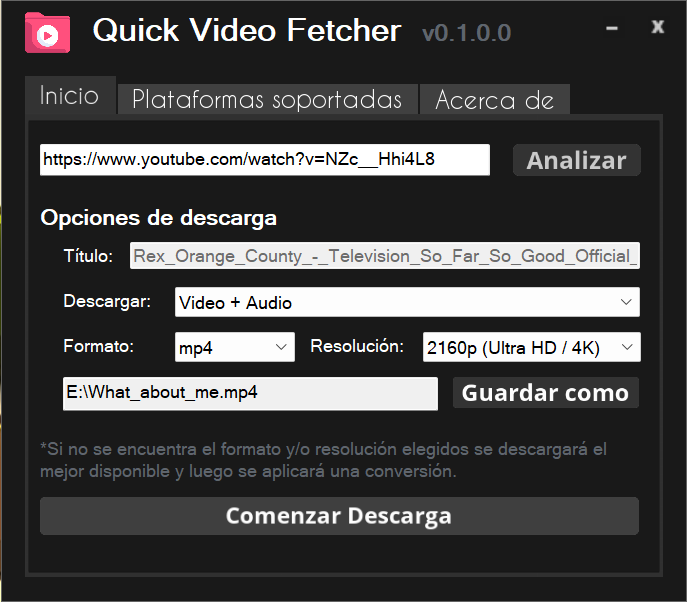
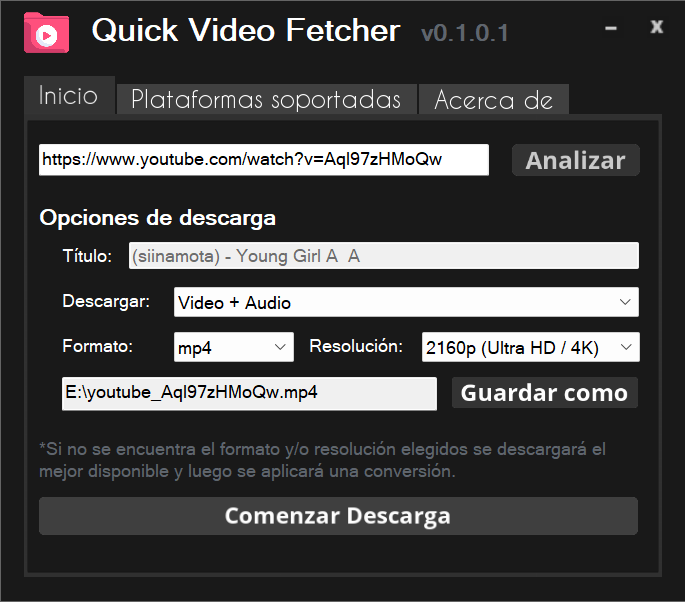
v0.1.0.1
- Añadimos un identificador de plataformas (sitios web desde los que se descargan los videos) para generar mejores nombres de archivo predeterminados.
- Añadimos un mensaje de que, por el momento, no se pueden descargar videos desde una plataforma azul.
- Queremos probar el actualizador automático

diff --git a/README.md b/README.md
@@ -8,8 +8,8 @@ Puedes utilizar estos *checksum* para verificar que la descarga no ha sido alter
 
 | NOMBRE DE ARCHIVO       | SHA256                                                           | MD5                              |
 |-------------------------|------------------------------------------------------------------|----------------------------------|
-| [Quick_Video_Fetcher.ahk](https://github.com/mautech05/quick-video-fetcher/blob/main/Quick_Video_Fetcher.ahk) | 9af76c1d4b3891a1ddf22100a1b45a6642d571a92290034bf7546b9d4153d545 | cda1c2532665a28d602b4f1e6839ca4a |
-| [quickvf_release.zip](https://github.com/mautech05/quick-video-fetcher/releases)     | df93063e4ddc4b402e8df96414deb76d5fb5ed920088dd6e4d6611289941ee77 | 649ca28f15fc89959c752d0662abddfa |
+| [Quick_Video_Fetcher.ahk](https://github.com/mautech05/quick-video-fetcher/blob/main/Quick_Video_Fetcher.ahk) | 223fc54f76164be125766d5a0b33199ce6c8188998ea28a07280dab60a675a08 | 9e285c1f6bc9dd9866e083a3fb71b9e3 |
+| [quickvf_release.zip](https://github.com/mautech05/quick-video-fetcher/releases)     | ff3a4b5fccdf360743fc9ae57711d5d4dd4197ac6c4868a48f79b80511786f72 | 744c9a3d7ad4da4cf8b814d80200776f |
 
 ## Instalación
 ⚠⚠Es importante mencionar que este programa **requiere** del uso de **AutoHotKey v2** para funcionar. No obstante, también ofrecemos una versión ya compilada para aquellos que no desean o no pueden instalar AutoHotKey. Dicha versión compilada [no está firmada digitalmente](https://www.redeszone.net/2018/04/21/comprobar-firmas-digitales-programas-windows/) (la licencia cuesta casi 500 euros) por lo que Windows tratará de evitar su ejecución.
